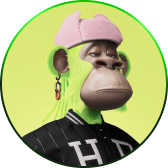
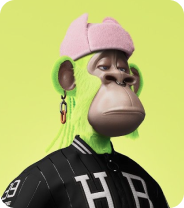
section creaty-list

diff --git a/index.html b/index.html
@@ -130,12 +130,14 @@
           <ul class="icon-panel__list">
             <li class="icon-panel__item">
               <div class="icon-panel__card">
-                <img
-                  class="icon-panel__img"
-                  src="img/icon1.png"
-                  alt="icon1"
-                  width="168"
-                />
+                <div class="icon-panel__img-wrp">
+                  <img
+                    class="icon-panel__img"
+                    src="img/icon1.1.png"
+                    alt="icon1"
+                    width="166"
+                  />
+                </div>
                 <span class="icon-panel__name">Ben carle</span>
                 <span class="icon-panel__txt"
                   >Super rare <span class="big-text">nft</span></span
@@ -144,12 +146,14 @@
             </li>
             <li class="icon-panel__item">
               <div class="icon-panel__card">
-                <img
-                  class="icon-panel__img"
-                  src="img/icon2.png"
-                  alt="icon2"
-                  width="168"
-                />
+                <div class="icon-panel__img-wrp">
+                  <img
+                    class="icon-panel__img"
+                    src="img/icon2.png"
+                    alt="icon2"
+                    width="166"
+                  />
+                </div>
                 <span class="icon-panel__name">Ben carle</span>
                 <span class="icon-panel__txt"
                   >Super rare <span class="big-text">nft</span></span
@@ -158,12 +162,14 @@
             </li>
             <li class="icon-panel__item">
               <div class="icon-panel__card">
-                <img
-                  class="icon-panel__img"
-                  src="img/icon3.png"
-                  alt="icon3"
-                  width="168"
-                />
+                <div class="icon-panel__img-wrp">
+                  <img
+                    class="icon-panel__img"
+                    src="img/icon3.png"
+                    alt="icon3"
+                    width="166"
+                  />
+                </div>
                 <span class="icon-panel__name">Ben carle</span>
                 <span class="icon-panel__txt"
                   >Super rare <span class="big-text">nft</span></span
@@ -172,12 +178,14 @@
             </li>
             <li class="icon-panel__item">
               <div class="icon-panel__card">
-                <img
-                  class="icon-panel__img"
-                  src="img/icon4.png"
-                  alt="icon4"
-                  width="168"
-                />
+                <div class="icon-panel__img-wrp">
+                  <img
+                    class="icon-panel__img"
+                    src="img/icon4.png"
+                    alt="icon4"
+                    width="166"
+                  />
+                </div>
                 <span class="icon-panel__name">Ben carle</span>
                 <span class="icon-panel__txt"
                   >Super rare <span class="big-text">nft</span></span
@@ -186,6 +194,62 @@
             </li>
           </ul>
         </div>
+      </section>
+      <section class="creaty-list center">
+        <div class="creaty-list__discription">
+          <h3 class="creaty-list__title">Start creating</h3>
+          <p class="creaty-list__text">
+            Creaty, list and sell your own <span class="big-text">nft</span>s
+          </p>
+        </div>
+        <ul class="creaty-list__card-list">
+          <li class="creaty-list__card-item">
+            <div class="card-item__txt-wrp">
+              <h4 class="card-item__title">
+                Creaty, list and your own <span class="big-text">nft</span>s
+              </h4>
+              <p class="card-item__text">
+                Choose a&nbsp;wallet: Select a&nbsp;reputable&nbsp;<span
+                  class="big-text"
+                  >ft</span
+                >
+                wallet provider that supports the blockchain on&nbsp;which your
+                desired <span class="big-text">nft</span>s are issued. Popular
+                options include MetaMask, Trust Wallet, and MyEtherWallet.
+              </p>
+              <a class="card-item__link" href="">Learn more</a>
+            </div>
+          </li>
+          <li class="creaty-list__card-item">
+            <div class="card-item__txt-wrp">
+              <h4 class="card-item__title">
+                Upload your <span class="big-text">nft</span>s
+              </h4>
+              <p class="card-item__text">
+                Prepare your <span class="big-text">nft</span>: Create or obtain
+                the digital asset that you want to&nbsp;tokenize
+                as&nbsp;an&nbsp;<span class="big-text">nft</span>. This could
+                be&nbsp;artwork, music, videos, virtual items, or any other
+                unique digital content.
+              </p>
+              <a class="card-item__link" href="">Learn more</a>
+            </div>
+          </li>
+          <li class="creaty-list__card-item">
+            <div class="card-item__txt-wrp">
+              <h4 class="card-item__title">
+                List your <span class="big-text">nft</span>s
+              </h4>
+              <p class="card-item__text">
+                Explore and purchase <span class="big-text">nft</span>s: Browse
+                through the available&nbsp;<span class="big-text">ft</span>
+                collections, select the desired artwork or&nbsp;digital asset,
+                and follow the instructions to&nbsp;make a&nbsp;purchase.
+              </p>
+              <a class="card-item__link" href="">Learn more</a>
+            </div>
+          </li>
+        </ul>
       </section>
     </main>
   </body>

diff --git a/style/style.css b/style/style.css
@@ -390,13 +390,27 @@ li {
   align-items: center;
   flex-direction: column;
 }
-.icon-panel__img {
-  display: block;
+.icon-panel__img-wrp {
+  position: relative;
+  width: 168px;
   height: 168px;
+  background: linear-gradient(
+    to bottom,
+    #08d900 24.7%,
+    #0f2a0e 55.21%,
+    #0f2a0e 100%
+  );
   border-radius: 100%;
   margin: 0 0 10px;
 }
-
+.icon-panel__img {
+  position: absolute;
+  top: 1px;
+  left: 1px;
+  display: block;
+  height: 166px;
+  border-radius: 100%;
+}
 .icon-panel__name,
 .icon-panel__txt {
   display: block;
@@ -421,4 +435,126 @@ li {
   font-size: 14px;
   font-weight: 400;
   line-height: 21px;
+}
+
+.creaty-list {
+}
+.creaty-list__discription {
+  min-height: 73px;
+  max-width: 320px;
+  width: 100%;
+  margin: 0 0 11px;
+}
+.creaty-list__title {
+  margin: 0 0 20px;
+  font-weight: 700;
+  font-size: 20px;
+  line-height: 30px;
+  text-transform: capitalize;
+  background: var(
+    --g-white,
+    linear-gradient(135deg, #e3e3e3 0.7%, #e3e3e3 55.21%, #e3e3e3 100%)
+  );
+  background-clip: text;
+  -webkit-background-clip: text;
+  -webkit-text-fill-color: transparent;
+}
+.creaty-list__text {
+  font-family: "Open Sans", sans-serif;
+  font-weight: 400;
+  font-size: 15px;
+  line-height: 22px;
+  color: #ececec;
+}
+
+.creaty-list__card-list {
+  display: flex;
+  flex-direction: column;
+  align-items: center;
+  gap: 20px;
+}
+.creaty-list__card-item {
+  position: relative;
+  padding: 15px 11px 16px 15px;
+  max-width: 345px;
+  width: 100%;
+  border-radius: 3px;
+  background: linear-gradient(135deg, #07c800 0%, #57ff51 61.26%, #07c800 100%);
+}
+.creaty-list__card-item::after {
+  content: "";
+  position: absolute;
+  bottom: 5px;
+  right: 12px;
+  background-image: url(../img/image-card-item1.png);
+  background-repeat: no-repeat;
+  width: 60px;
+  height: 60px;
+}
+.creaty-list__card-item:nth-child(2)::after {
+  background-image: url(../img/image-card-item2.png);
+}
+.creaty-list__card-item:nth-child(3)::after {
+  background-image: url(../img/image-card-item3.png);
+}
+
+.card-item__txt-wrp {
+}
+.card-item__title {
+  margin: 0 0 9px;
+  font-weight: 700;
+  font-size: 19px;
+  line-height: 30px;
+  color: #000;
+}
+.creaty-list__card-item:nth-child(2) .card-item__title {
+  font-size: 19.892px;
+  margin: 1px 0 12px;
+}
+.creaty-list__card-item:nth-child(3) .card-item__title {
+  font-size: 19.892px;
+  margin: 0 0 10px;
+}
+.card-item__text {
+  margin: 0 0 10px;
+  font-family: "Open Sans", sans-serif;
+  font-weight: 400;
+  font-size: 14px;
+  line-height: 21px;
+  color: #000;
+}
+.creaty-list__card-item:nth-child(2) .card-item__text {
+  margin: 0 0 13px;
+}
+.creaty-list__card-item:nth-child(3) .card-item__text {
+  margin: 0 0 16px;
+}
+
+.card-item__link {
+  position: relative;
+  font-family: "Open Sans", sans-serif;
+  text-decoration: none;
+  font-weight: 600;
+  font-size: 15px;
+  line-height: 22px;
+  color: #000;
+}
+
+.card-item__link::after {
+  content: "";
+  position: absolute;
+  top: 6px;
+  right: -39px;
+  width: 29px;
+  height: 7px;
+  background-image: url(../img/arrow-card-link.svg);
+  background-repeat: no-repeat;
+}
+.creaty-list__card-item:nth-child(2) .card-item__link::after {
+  top: 8px;
+  right: -37px;
+}
+.creaty-list__card-item:nth-child(3) .card-item__link::after {
+  top: 7px;
+  right: -54px;
 }
